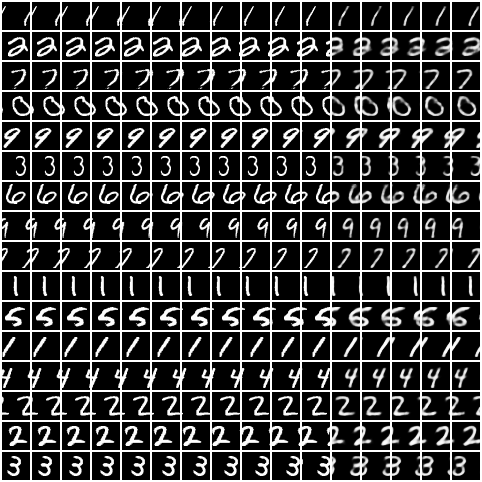
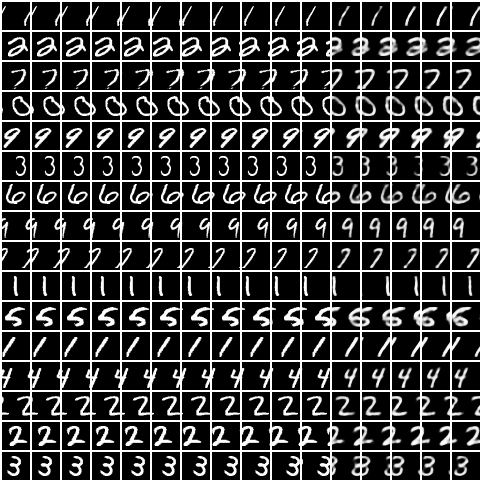
Use sampling instead of mean

diff --git a/models/tdvae/tdvae.py b/models/tdvae/tdvae.py
@@ -187,7 +187,7 @@ class TDVAE(nn.Module):
                 p_z_b_mu, p_z_b_logvar = self.z_b[layer](b[:, layer])
             else:
                 p_z_b_mu, p_z_b_logvar = self.z_b[layer](torch.cat([b[:, layer], p_z_b], dim=1))
-            p_z_b = ops.reparameterize_gaussian(p_z_b_mu, p_z_b_logvar, False)
+            p_z_b = ops.reparameterize_gaussian(p_z_b_mu, p_z_b_logvar, True)
             p_z_bs.insert(0, p_z_b)
 
         z = torch.cat(p_z_bs, dim=1)
@@ -200,7 +200,7 @@ class TDVAE(nn.Module):
                     pt_z2_z1_mu, pt_z2_z1_logvar = self.z_z[layer](z)
                 else:
                     pt_z2_z1_mu, pt_z2_z1_logvar = self.z_z[layer](torch.cat([z, pt_z2_z1], dim=1))
-                pt_z2_z1 = ops.reparameterize_gaussian(pt_z2_z1_mu, pt_z2_z1_logvar, False)
+                pt_z2_z1 = ops.reparameterize_gaussian(pt_z2_z1_mu, pt_z2_z1_logvar, True)
                 next_z.insert(0, pt_z2_z1)
 
             z = torch.cat(next_z, dim=1)
